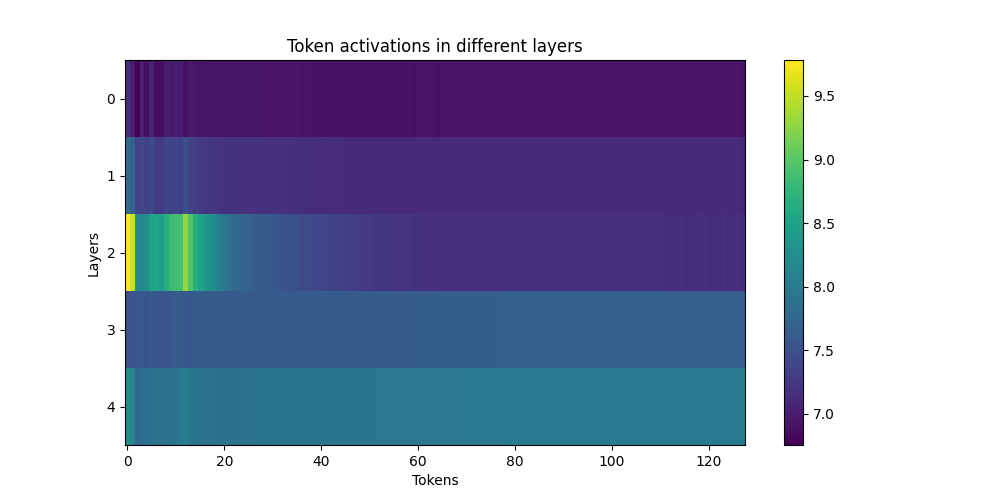
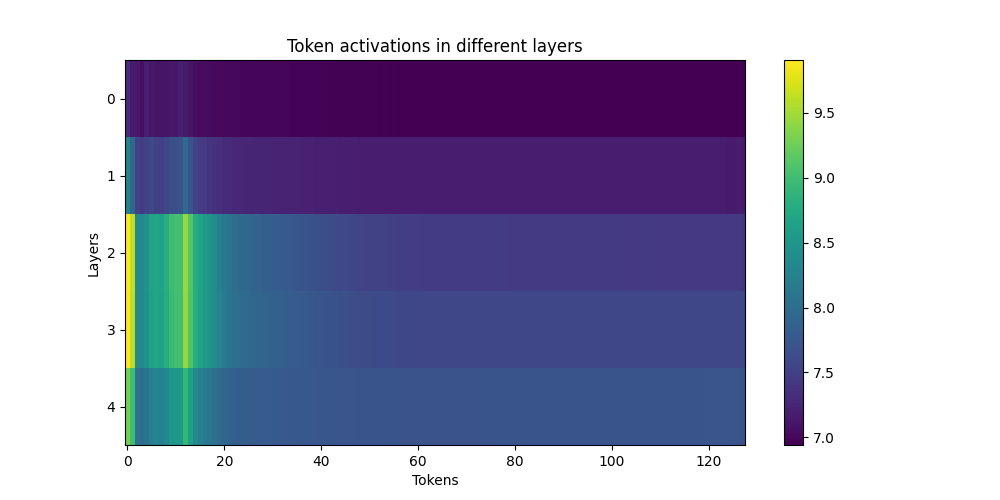
single sample norm

diff --git a/main.py b/main.py
@@ -47,6 +47,60 @@ def activation_embeds_fn(model, dataloader, batch_size): # So it contains 5 laye
             
     return activation_embeds
 
+class single_sample_act_norm(model, data):
+    
+    def __init__(self, model, data):
+        self.model = model
+        self.data = data
+    
+    def activation(self):
+        
+        act_dict = {
+            "layer 0": [],
+            "layer 1": [],
+            "layer 2": [],
+            "layer 3": [],
+            "layer 4": []
+        }
+        
+        for index, sample in enumerate(self.data):
+            
+            with self.model.trace(sample) as tracer:
+                output0 = self.model.gpt_neox.layers[0].mlp.act.output.save()
+                output1 = self.model.gpt_neox.layers[1].mlp.act.output.save()
+                output2 = self.model.gpt_neox.layers[2].mlp.act.output.save()
+                output3 = self.model.gpt_neox.layers[3].mlp.act.output.save()
+                output4 = self.model.gpt_neox.layers[4].mlp.act.output.save()
+                output = self.model.embed_out.output.save()
+            
+            for i,j in enumerate([output0, output1, output2, output3, output4]):    
+                act_dict[f"layer {i}"].append(np.array([t.norm(j, dim = -1)]))
+            
+            if index > 20:
+                break
+            
+        return act_dict
+    
+    def norm(self):
+        
+        activations = self.activation()
+        assert activations["layer 0"][0].shape == (128,)
+        for index in range(activations["layer 0"].shape[0]):
+            self.plot(data=activations["layer 0"][index], name = f"mfigures/layer0_seq_norm_{index}.png")
+            self.plot(data=activations["layer 1"][index], name = f"mfigures/layer1_seq_norm_{index}.png")
+            self.plot(data=activations["layer 2"][index], name = f"mfigures/layer2_seq_norm_{index}.png")
+            self.plot(data=activations["layer 3"][index], name = f"mfigures/layer3_seq_norm_{index}.png")
+            self.plot(data=activations["layer 4"][index], name = f"mfigures/layer4_seq_norm_{index}.png")
+    
+    def plot(self, data, name):
+        plt.figure(figsize=(10, 5))
+        plt.imshow(data, aspect='auto', cmap='viridis')
+        plt.colorbar()
+        plt.xlabel('Tokens')
+        plt.ylabel('Layers')
+        plt.title('Single Sample Token activations in different layers')
+        plt.savefig(name)
+            
 
 def plotting(data, name):
     # Create the heatmap
@@ -169,7 +223,7 @@ class gradients_norm:
         self.dataloader = dataloader
         
         try:
-            with open("data/grads.pkl", "rb") as f:
+            with open("data/grads_resid.pkl", "rb") as f:
                 grads = pickle.load(f)    
             self.grads = grads  
         except:
@@ -192,11 +246,11 @@ class gradients_norm:
             
             with self.model.trace(batch["input_ids"]) as tracer:
             
-                output0 = self.model.gpt_neox.layers[0].mlp.output.grad.save()
-                output1 = self.model.gpt_neox.layers[1].mlp.output.grad.save()
-                output2 = self.model.gpt_neox.layers[2].mlp.output.grad.save()
-                output3 = self.model.gpt_neox.layers[3].mlp.output.grad.save()
-                output4 = self.model.gpt_neox.layers[4].mlp.output.grad.save()
+                output0 = self.model.gpt_neox.layers[0].output[0].grad.save()
+                output1 = self.model.gpt_neox.layers[1].output[0].grad.save()
+                output2 = self.model.gpt_neox.layers[2].output[0].grad.save()
+                output3 = self.model.gpt_neox.layers[3].output[0].grad.save()
+                output4 = self.model.gpt_neox.layers[4].output[0].grad.save()
                 
                 self.model.output.logits.sum().backward()
             
@@ -207,7 +261,7 @@ class gradients_norm:
             grad_embeds["layer 3"].append(t.norm(t.norm(output3, dim = 0), dim = -1))
             grad_embeds["layer 4"].append(t.norm(t.norm(output4, dim = 0), dim = -1))
             
-        with open("data/grads.pkl", "wb") as f:
+        with open("data/grads_resid.pkl", "wb") as f:
             pickle.dump(grad_embeds, f)
             
         return grad_embeds
@@ -241,7 +295,7 @@ class gradients_norm:
             # mean_acts["last layer"]
             ])
         
-        plotting(data=gradlist, name = "figures/grads_layer_seq_norm.png")
+        plotting(data=gradlist, name = "figures/grads_layer_seq_norm_grad_resid.png")
     
     def normwmean(self):
         
@@ -286,7 +340,7 @@ class gradients_norm:
             # mean_acts["last layer"]
             ])
         
-        plotting(data=gradlistmean, name = "figures/grad_layer_seq_normwmean.png")
+        plotting(data=gradlistmean, name = "figures/grad_layer_seq_normwmean_grad_resid.png")
 
 
 if __name__ == "__main__":
@@ -322,11 +376,13 @@ if __name__ == "__main__":
             pickle.dump(activation_embeds, f)
     
 
-    normed_class = normed(activation_embeds)
-    normed_class.normwmean()
-    normed_class.norm()
+    # normed_class = normed(activation_embeds)
+    # normed_class.normwmean()
+    # normed_class.norm()
     
-    normed_grad = gradients_norm(model, val_dataloader)
-    normed_grad.norm()
-    normed_grad.normwmean()
+    # normed_grad = gradients_norm(model, val_dataloader)
+    # normed_grad.norm()
+    # normed_grad.normwmean()
     
+    normed_single = single_sample_act_norm(model, val_data)
+    normed_single.norm()
